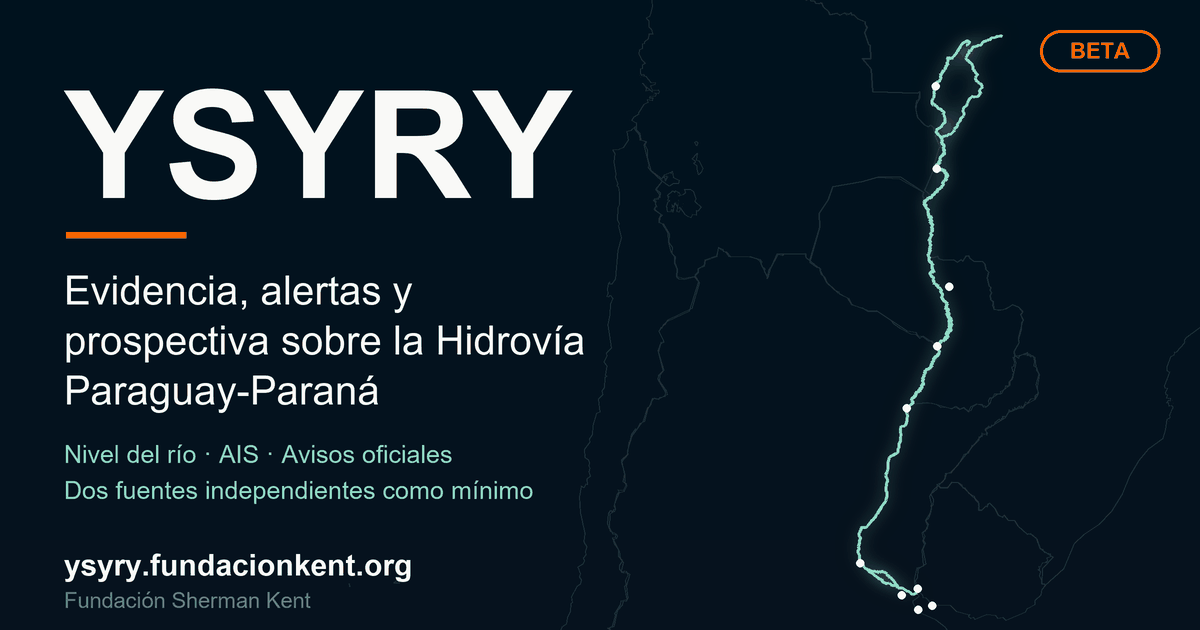
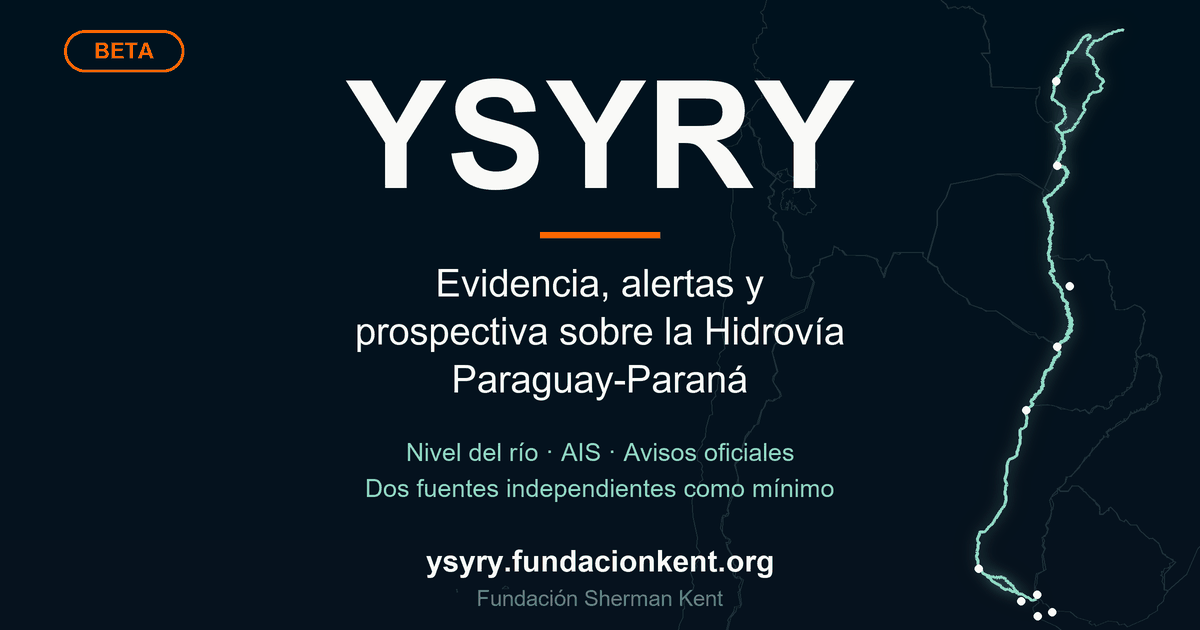
Miniatura rediseñada con el contenido centrado (sobrevive al recorte cuadrado) y versión v3

diff --git a/sitio/herramientas/imagen_compartir.py b/sitio/herramientas/imagen_compartir.py
@@ -47,7 +47,7 @@ def main():
     x0, x1 = min(p[0] for p in pts), max(p[0] for p in pts)
     y0, y1 = min(p[1] for p in pts), max(p[1] for p in pts)
     # el corredor cabe en la franja derecha de la imagen
-    caja = (700, 36, 1160, 594)
+    caja = (930, 30, 1170, 600)
     esc = min((caja[2] - caja[0]) / (x1 - x0), (caja[3] - caja[1]) / (y1 - y0))
     ox = caja[0] + ((caja[2] - caja[0]) - (x1 - x0) * esc) / 2
     oy = caja[1] + ((caja[3] - caja[1]) - (y1 - y0) * esc) / 2
@@ -90,20 +90,20 @@ def main():
             if cerca:
                 d.ellipse([x - 4 * S, y - 4 * S, x + 4 * S, y + 4 * S], fill=PAPEL)
 
-    # texto
-    d.text((64 * S, 62 * S), "YSYRY", font=fuente("arialbd.ttf", 150), fill=PAPEL)
-    d.rectangle([66 * S, 232 * S, 186 * S, 238 * S], fill=NARANJA)
+    # texto, centrado: si una red recorta la imagen en cuadrado (WhatsApp, a veces), el recorte central de 630 px conserva el nombre y la bajada
+    cx = 600 * S
+    d.text((cx, 52 * S), "YSYRY", font=fuente("arialbd.ttf", 150), fill=PAPEL, anchor="ma")
+    d.rectangle([540 * S, 232 * S, 660 * S, 238 * S], fill=NARANJA)
     bajada = ["Evidencia, alertas y", "prospectiva sobre la Hidrovía", "Paraguay-Paraná"]
     for i, linea in enumerate(bajada):
-        d.text((64 * S, (268 + i * 50) * S), linea, font=fuente("arial.ttf", 40), fill=PAPEL)
-    d.text((64 * S, 440 * S), "Nivel del río · AIS · Avisos oficiales", font=fuente("arial.ttf", 25), fill=MENTA)
-    d.text((64 * S, 476 * S), "Dos fuentes independientes como mínimo", font=fuente("arial.ttf", 25), fill=MENTA)
-    d.text((64 * S, 548 * S), "ysyry.fundacionkent.org", font=fuente("arialbd.ttf", 30), fill=PAPEL)
-    d.text((64 * S, 588 * S), "Fundación Sherman Kent", font=fuente("arial.ttf", 22), fill=ACERO)
-    # sello beta
-    d.rounded_rectangle([1040 * S, 30 * S, 1160 * S, 72 * S], radius=21 * S, outline=NARANJA, width=3 * S)
-    f = fuente("arialbd.ttf", 22)
-    d.text((1100 * S, 51 * S), "BETA", font=f, fill=NARANJA, anchor="mm")
+        d.text((cx, (262 + i * 48) * S), linea, font=fuente("arial.ttf", 38), fill=PAPEL, anchor="ma")
+    d.text((cx, 438 * S), "Nivel del río · AIS · Avisos oficiales", font=fuente("arial.ttf", 25), fill=MENTA, anchor="ma")
+    d.text((cx, 474 * S), "Dos fuentes independientes como mínimo", font=fuente("arial.ttf", 25), fill=MENTA, anchor="ma")
+    d.text((cx, 544 * S), "ysyry.fundacionkent.org", font=fuente("arialbd.ttf", 30), fill=PAPEL, anchor="ma")
+    d.text((cx, 586 * S), "Fundación Sherman Kent", font=fuente("arial.ttf", 22), fill=ACERO, anchor="ma")
+    # sello beta, a la izquierda arriba (queda fuera del recorte cuadrado)
+    d.rounded_rectangle([64 * S, 30 * S, 184 * S, 72 * S], radius=21 * S, outline=NARANJA, width=3 * S)
+    d.text((124 * S, 51 * S), "BETA", font=fuente("arialbd.ttf", 22), fill=NARANJA, anchor="mm")
 
     destino.parent.mkdir(parents=True, exist_ok=True)
     final = fondo.resize((W, H), Image.LANCZOS)

diff --git a/sitio/direccion.py b/sitio/direccion.py
@@ -2,4 +2,4 @@
 aplicación está en /sitio/. Dominio propio activo desde el 21/10/2026 (CNAME en SiteGround hacia GitHub Pages, HTTPS forzado); si cambia, se cambia SOLO esta constante."""
 BASE = "https://ysyry.fundacionkent.org/"
 APP = BASE + "sitio/"
-IMAGEN = BASE + "ysyry-compartir.png?v=2"      # miniatura 1200 x 630 para compartir en redes (sitio/herramientas/imagen_compartir.py)
+IMAGEN = BASE + "ysyry-compartir.png?v=3"      # miniatura 1200 x 630 para compartir en redes (sitio/herramientas/imagen_compartir.py)
